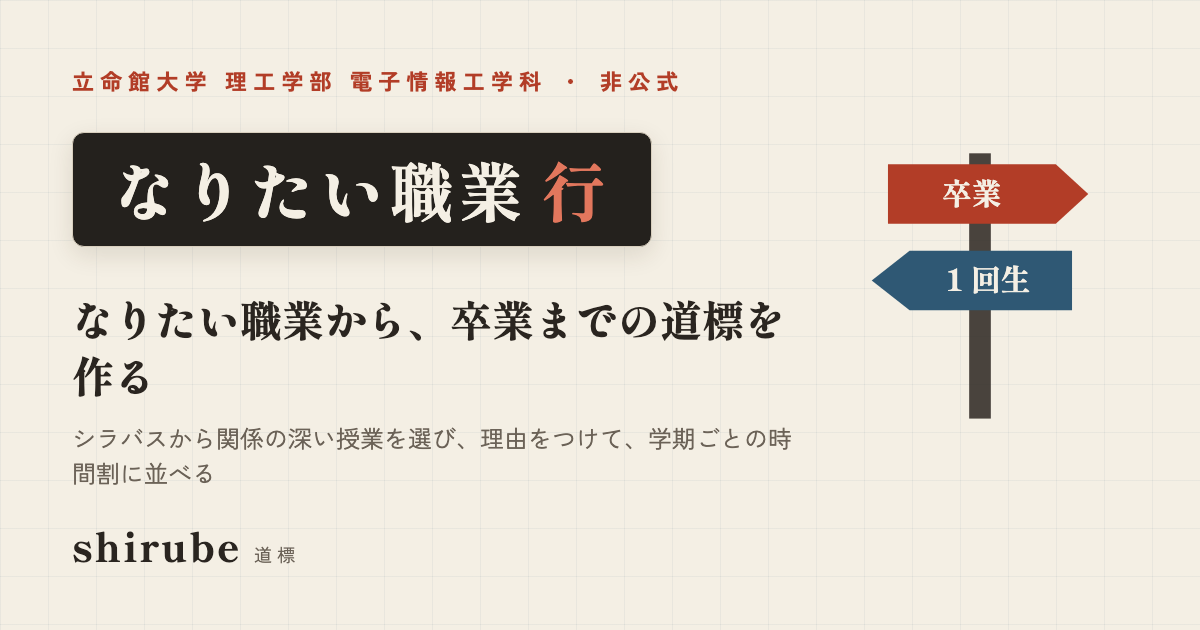
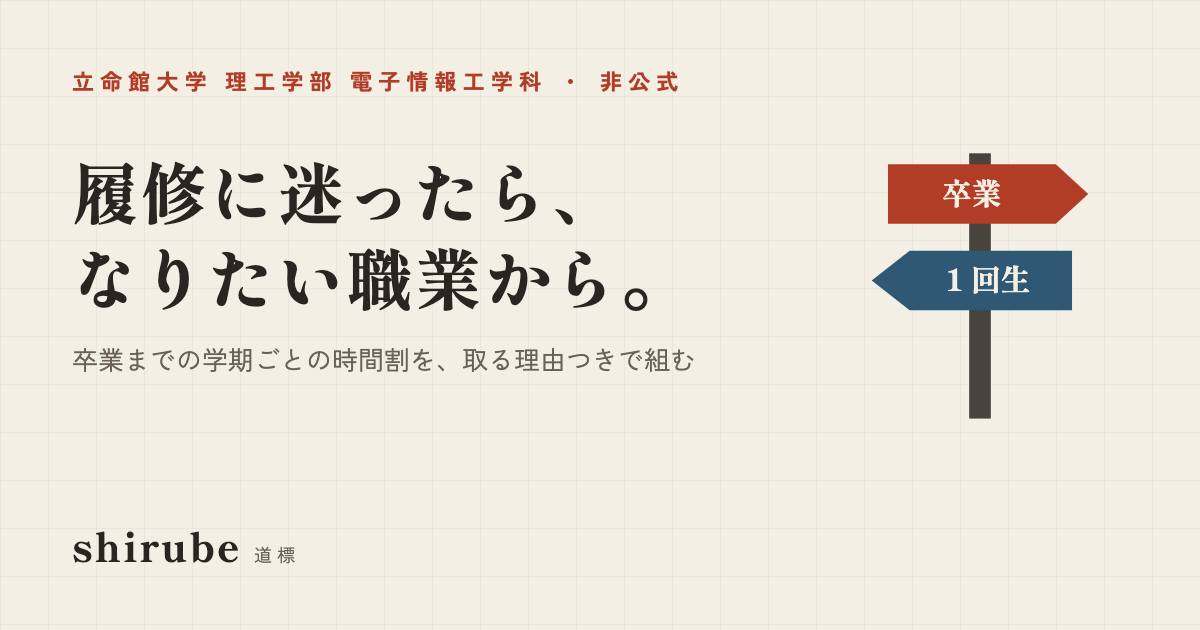
frontend: トップの見出しと共有カードをキャッチフレーズ「履修に迷ったら、なりたい職業から。」にする
トップの大きな見出しを替え、スマホでは「履修に迷ったら、」と「なりたい職業から。」をそれぞれ 1 かたまりで折り返す(そのままだと「な / りたい」で切れた)。共有カード(OG 画像)は行先表示の板をやめて、キャッチフレーズと「卒業までの学期ごとの時間割を、取る理由つきで組む」にし、make.py で撮り直した。代替の文も合わせた(ADR 0046)。

Changed region(s): [[0.0617, 0.2111, 0.6475, 0.6333], [0.0617, 0.6635, 0.37, 0.7841], [0.4008, 0.6635, 0.6783, 0.7238]]

diff --git a/frontend/brand/opengraph-image.html b/frontend/brand/opengraph-image.html
@@ -32,37 +32,19 @@
         letter-spacing: 0.28em;
         color: #b23d27;
       }
-      .plate {
-        display: inline-block;
-        margin-top: 36px;
-        padding: 18px 40px;
-        border: 1px solid #d8cfbe;
-        border-radius: 12px;
-        background: #24211d;
-        color: #f4efe4;
-        box-shadow: 0 8px 24px rgb(60 40 20 / 0.12);
+      .catch {
+        max-width: 760px;
+        margin: 52px 0 0;
         font-family: "Shippori Mincho", "Hiragino Mincho ProN", serif;
-        font-size: 64px;
+        font-size: 66px;
         font-weight: 800;
-        letter-spacing: 0.08em;
-        line-height: 1.2;
-      }
-      .plate .to {
-        margin-left: 14px;
-        color: #e2775d;
-      }
-      .title {
-        max-width: 740px;
-        margin: 44px 0 0;
-        font-family: "Shippori Mincho", "Hiragino Mincho ProN", serif;
-        font-size: 42px;
-        font-weight: 800;
-        line-height: 1.35;
+        letter-spacing: 0.04em;
+        line-height: 1.3;
       }
       .sub {
         max-width: 740px;
-        margin: 16px 0 0;
-        font-size: 24px;
+        margin: 20px 0 0;
+        font-size: 26px;
         color: #6b6257;
       }
       .brand {
@@ -93,11 +75,8 @@
   </head>
   <body>
     <div class="kicker">立命館大学 理工学部 電子情報工学科 ・ 非公式</div>
-    <div class="plate">なりたい職業<span class="to">行</span></div>
-    <h1 class="title">なりたい職業から、卒業までの道標を作る</h1>
-    <p class="sub">
-      シラバスから関係の深い授業を選び、理由をつけて、学期ごとの時間割に並べる
-    </p>
+    <h1 class="catch">履修に迷ったら、<br />なりたい職業から。</h1>
+    <p class="sub">卒業までの学期ごとの時間割を、取る理由つきで組む</p>
     <div class="brand">shirube<small>道標</small></div>
     <svg class="signpost" viewBox="0 0 96 116" aria-hidden="true">
       <rect x="44" y="16" width="8" height="98" fill="#2a2520" opacity="0.85" />

diff --git a/frontend/src/app/page.tsx b/frontend/src/app/page.tsx
@@ -15,7 +15,8 @@ export default function Home() {
       <section className="grid gap-3 motion-safe:animate-rise">
         <Kicker>立命館大学 理工学部 {DEPARTMENT_NAME}</Kicker>
         <h1 className="font-serif text-3xl leading-snug font-extrabold text-balance sm:text-5xl sm:leading-tight">
-          なりたい職業から、卒業までの道標を作る
+          <span className="inline-block">履修に迷ったら、</span>
+          <span className="inline-block">なりたい職業から。</span>
         </h1>
         <p className="max-w-2xl leading-relaxed text-sub">
           シラバスから職業に関係の深い授業を選び、取る理由をつけて、卒業までの学期ごとの時間割に並べます。

diff --git a/CLAUDE.md b/CLAUDE.md
@@ -47,7 +47,7 @@ frontend(`frontend/` で実行)
 
 `main.py`、`presentation/cli/`、`presentation/worker.py` は合成ルートで、infrastructure の実装を組み立てて application のポートの型として渡す。共有する組み立ての部品は `presentation/composition.py` に置く。API は `presentation/api/app.py` の `create_app` が組み立て済みのユースケースを受け取り(ADR 0029)、テストはフェイクを渡す。それ以外の presentation のコードは infrastructure を import しない。
 
-frontend は API を呼んで表示するだけで、業務ロジックを置かない。バックエンドは Next.js の Route Handler(`src/app/api/`)経由で呼ぶ。Route Handler はログインを確かめ、`src/lib/backend.ts` で Google の sub を入れた JWT を付けて転送するだけ(ADR 0028)。転送の前に、状態を変える要求(GET、HEAD、OPTIONS 以外)の送り元を `Sec-Fetch-Site`(無ければ `Origin` と、Next が付ける `X-Forwarded-Host` のホスト名)で確かめてほかのサイトからなら 403、本文は 64KB まで(超えれば 413)にする(ADR 0039)。画面は `src/app/` の入力(`/`)、結果(`/plans/[id]`)、一覧(`/plans`)と、ログインの要らない利用規約(`/terms`)とプライバシーポリシー(`/privacy`、どちらも `LegalDocument` と `ContactSection` の部品で同じ体裁)、ログイン(`/login`)で、前の 3 つはどれも `LoginRequired` でログインを確かめてから、Client Component(`src/components/`)が Route Handler だけを呼ぶ(ADR 0030)。API の型は、openapi-typescript が生成した `schema.ts` から `src/lib/api/client.ts` が取り出し、表示の決まり(週の時間割の並べ方、ポーリングの打ち切り、ラベル、作成中の段の進み、見え方のクエリ、道のりの合計、駅番号、学期の読み、礎から柱への乗り換え)は `src/lib/` に置いて Vitest で確かめる。部品は Tailwind だけで書く。見た目は ADR 0031 の路線図を ADR 0033 の「しるべ線」に深めたもの(行先表示、乗換案内のような要約、学期は駅名標、授業は切符、礎は柱への乗り換え、道のりの終わりと帯の終点と要約の到着は行き先(職業)で駅番号を付けない(ADR 0036)、道のりの上に車内の路線図の帯、切符に触れると乗り換えでつながる切符が光る、前の学期に開講された授業の切符に「もう取った」、外した授業は「もう取った授業」に並べて戻せる、入力の画面に「もう取ったと答えた授業」を畳んで置き取り消せる、行先表示のすぐ下に非公式で必修や卒業要件を見ていないことの注意、切符に原ページへの「シラバス ↗」、終わりに出典。ADR 0040。結果の画面と一覧に「消す」(作成中でも置き、backend の 409 の文をその場に出す)、一覧の下に退会(作った道標の全件数ともう取ったと答えた授業の数を出す)。どちらもその場で「本当に消す / やめる」を出し、やめるにフォーカスを置く。退会したらサーバーアクションでログアウトしてトップへ。ADR 0041。全ページの下にフッター(非公式の断り、利用規約、プライバシーポリシー、GitHub と Issue)。ログインのボタンは同意の文と組で、ヘッダーのログインはそのボタンを置いた `/login` へのリンク(ログイン済みで開いたら入力の画面へ移す。ログインのあとも Auth.js が `/login` に戻すので、そこから移る)。ADR 0042)で、色は `src/app/globals.css` の CSS の変数(明るい見た目が既定、`data-theme="dark"` で暗い見た目)から Tailwind の色(paper、ink、pillar、route など)として引き、画面の言葉は中心を「柱」、土台を「礎」と呼ぶ。結果の画面の見え方(道のり / 時間割帳)と学期は `?view=timetable&semester=3-autumn` のクエリに持ち、`QueryLink` が `history.pushState` で変える(Next の useSearchParams と連動し、サーバーへ往復しない)。ログイン前のトップは `src/lib/sample-plan.ts` の見本の道標を見せる。無いページは `not-found.tsx`、描けなかったときは `error.tsx`(root layout が壊れたときは `global-error.tsx`。見た目の script とフォント(`src/lib/fonts.ts`)は root layout と共有)で日本語に出す。API の失敗は `FailureNotice`(何を読めなかったかの文、失敗の文、読み直すボタン。全面の知らせは読み直す前に消し、一部の知らせは結果が返るまで残す)か同じ文(`messageOf`)で出し、全面の知らせの枠は `Notice`(ページに h1 が残る場所では h2、`/plans/[id]` は `LoginRequired` の `heading="h1"`)で、英語の文を見せない。ログインが切れたとき(401)は `lib/api/client.ts` が購読者に知らせ、`LoginRequired` の中の `SignedOutGate` が 1 か所でページの中身を「ログインが切れました」と「ログインし直す」(ページを読み直す)に替える。無い道標(404)は読み直すボタンを出さず一覧への導線(ADR 0044)。動きは `motion-safe:` で付け、動きを減らす設定では出さない。`next.config.ts` の `headers` が全ての経路に `src/lib/security-headers.ts` のヘッダー(nonce 無しの CSP、X-Content-Type-Options、X-Frame-Options、Referrer-Policy、Permissions-Policy。HSTS は本番のプロキシ)を付ける。検索に載せるかはページの metadata の `robots` で、root layout の既定は noindex、トップと規約とポリシーだけ `INDEXED`(新しいページは載らない)。`app/robots.ts` は `/api/` だけ拒否、`app/sitemap.ts` は `PUBLIC_PAGES`、Auth.js の組み込みのページは使わず `/login` に向ける(`pages`)、`app/manifest.ts`、`app/icon.svg`、`app/favicon.ico`、`app/apple-icon.png`、`app/opengraph-image.png`(行先表示の板。`frontend/brand/make.py` で撮る)と `opengraph-image.alt.txt`。OG の title と description はページの title から Next が引き継ぐ。ADR 0045。
+frontend は API を呼んで表示するだけで、業務ロジックを置かない。バックエンドは Next.js の Route Handler(`src/app/api/`)経由で呼ぶ。Route Handler はログインを確かめ、`src/lib/backend.ts` で Google の sub を入れた JWT を付けて転送するだけ(ADR 0028)。転送の前に、状態を変える要求(GET、HEAD、OPTIONS 以外)の送り元を `Sec-Fetch-Site`(無ければ `Origin` と、Next が付ける `X-Forwarded-Host` のホスト名)で確かめてほかのサイトからなら 403、本文は 64KB まで(超えれば 413)にする(ADR 0039)。画面は `src/app/` の入力(`/`)、結果(`/plans/[id]`)、一覧(`/plans`)と、ログインの要らない利用規約(`/terms`)とプライバシーポリシー(`/privacy`、どちらも `LegalDocument` と `ContactSection` の部品で同じ体裁)、ログイン(`/login`)で、前の 3 つはどれも `LoginRequired` でログインを確かめてから、Client Component(`src/components/`)が Route Handler だけを呼ぶ(ADR 0030)。API の型は、openapi-typescript が生成した `schema.ts` から `src/lib/api/client.ts` が取り出し、表示の決まり(週の時間割の並べ方、ポーリングの打ち切り、ラベル、作成中の段の進み、見え方のクエリ、道のりの合計、駅番号、学期の読み、礎から柱への乗り換え)は `src/lib/` に置いて Vitest で確かめる。部品は Tailwind だけで書く。見た目は ADR 0031 の路線図を ADR 0033 の「しるべ線」に深めたもの(行先表示、乗換案内のような要約、学期は駅名標、授業は切符、礎は柱への乗り換え、道のりの終わりと帯の終点と要約の到着は行き先(職業)で駅番号を付けない(ADR 0036)、道のりの上に車内の路線図の帯、切符に触れると乗り換えでつながる切符が光る、前の学期に開講された授業の切符に「もう取った」、外した授業は「もう取った授業」に並べて戻せる、入力の画面に「もう取ったと答えた授業」を畳んで置き取り消せる、行先表示のすぐ下に非公式で必修や卒業要件を見ていないことの注意、切符に原ページへの「シラバス ↗」、終わりに出典。ADR 0040。結果の画面と一覧に「消す」(作成中でも置き、backend の 409 の文をその場に出す)、一覧の下に退会(作った道標の全件数ともう取ったと答えた授業の数を出す)。どちらもその場で「本当に消す / やめる」を出し、やめるにフォーカスを置く。退会したらサーバーアクションでログアウトしてトップへ。ADR 0041。全ページの下にフッター(非公式の断り、利用規約、プライバシーポリシー、GitHub と Issue)。ログインのボタンは同意の文と組で、ヘッダーのログインはそのボタンを置いた `/login` へのリンク(ログイン済みで開いたら入力の画面へ移す。ログインのあとも Auth.js が `/login` に戻すので、そこから移る)。ADR 0042)で、色は `src/app/globals.css` の CSS の変数(明るい見た目が既定、`data-theme="dark"` で暗い見た目)から Tailwind の色(paper、ink、pillar、route など)として引き、画面の言葉は中心を「柱」、土台を「礎」と呼ぶ。結果の画面の見え方(道のり / 時間割帳)と学期は `?view=timetable&semester=3-autumn` のクエリに持ち、`QueryLink` が `history.pushState` で変える(Next の useSearchParams と連動し、サーバーへ往復しない)。ログイン前のトップは `src/lib/sample-plan.ts` の見本の道標を見せる。無いページは `not-found.tsx`、描けなかったときは `error.tsx`(root layout が壊れたときは `global-error.tsx`。見た目の script とフォント(`src/lib/fonts.ts`)は root layout と共有)で日本語に出す。API の失敗は `FailureNotice`(何を読めなかったかの文、失敗の文、読み直すボタン。全面の知らせは読み直す前に消し、一部の知らせは結果が返るまで残す)か同じ文(`messageOf`)で出し、全面の知らせの枠は `Notice`(ページに h1 が残る場所では h2、`/plans/[id]` は `LoginRequired` の `heading="h1"`)で、英語の文を見せない。ログインが切れたとき(401)は `lib/api/client.ts` が購読者に知らせ、`LoginRequired` の中の `SignedOutGate` が 1 か所でページの中身を「ログインが切れました」と「ログインし直す」(ページを読み直す)に替える。無い道標(404)は読み直すボタンを出さず一覧への導線(ADR 0044)。動きは `motion-safe:` で付け、動きを減らす設定では出さない。`next.config.ts` の `headers` が全ての経路に `src/lib/security-headers.ts` のヘッダー(nonce 無しの CSP、X-Content-Type-Options、X-Frame-Options、Referrer-Policy、Permissions-Policy。HSTS は本番のプロキシ)を付ける。検索に載せるかはページの metadata の `robots` で、root layout の既定は noindex、トップと規約とポリシーだけ `INDEXED`(新しいページは載らない)。`app/robots.ts` は `/api/` だけ拒否、`app/sitemap.ts` は `PUBLIC_PAGES`、Auth.js の組み込みのページは使わず `/login` に向ける(`pages`)、`app/manifest.ts`、`app/icon.svg`、`app/favicon.ico`、`app/apple-icon.png`、`app/opengraph-image.png`(キャッチフレーズ「履修に迷ったら、なりたい職業から。」。トップの見出しも同じ。ADR 0046。`frontend/brand/make.py` で撮る)と `opengraph-image.alt.txt`。OG の title と description はページの title から Next が引き継ぐ。ADR 0045。
 
 ## 決まっていること(詳細は ADR)
 
